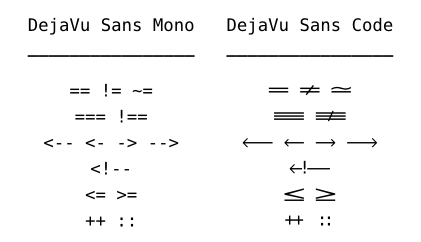
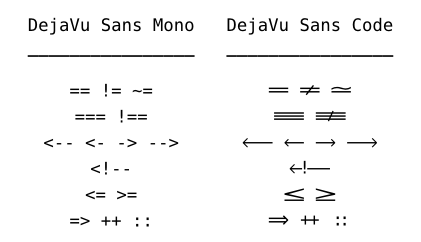
Updated README.md and font sample image.

Changed region(s): [[0.6176, 0.8967, 0.8337, 0.9256], [0.1544, 0.8967, 0.3397, 0.9545]]

diff --git a/README.md b/README.md
@@ -12,7 +12,7 @@ There are two variants of font available. One with all glyphs included and other
 
 Currently implemented symbols
 ---------------------------
-    == != ~= === !=== <!-- <-- <- -> --> <= => ++ ::
+    == != ~= === !=== <!-- <-- <- -> --> <= >= => ++ ::
 
 Supported editors
 ---------------------------
